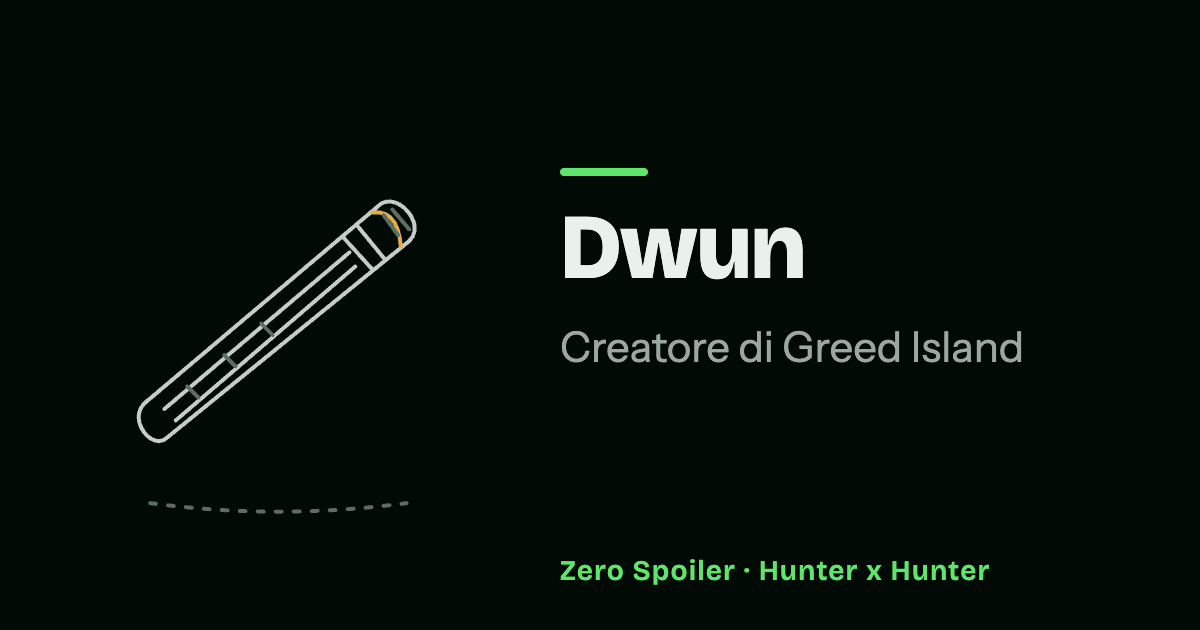
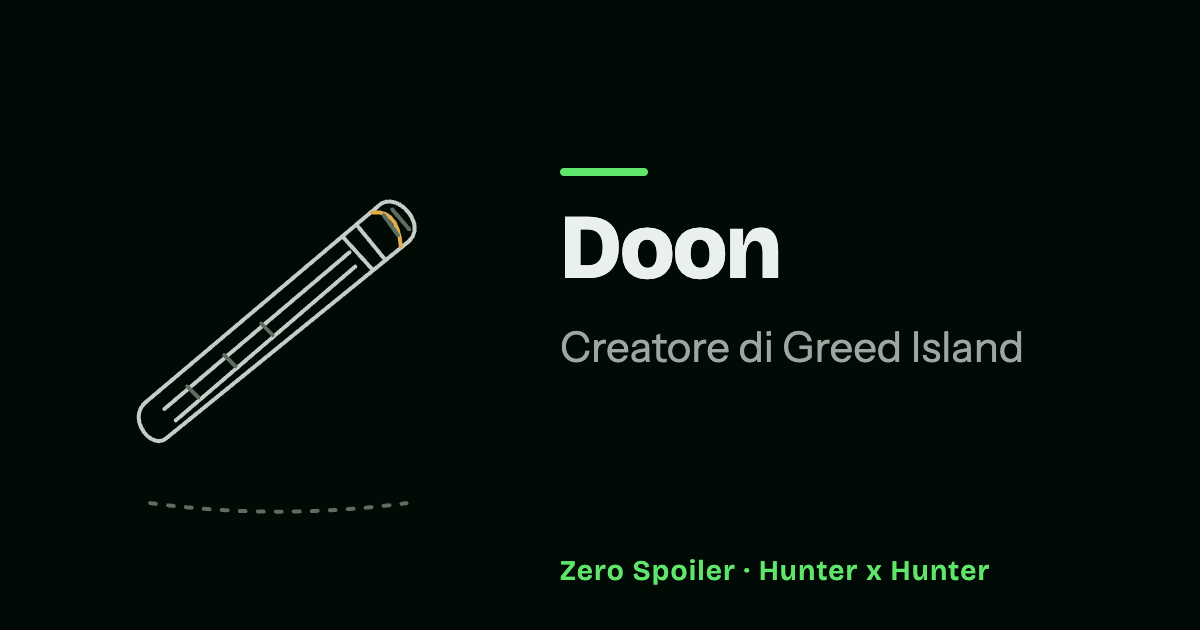
fix(hunter-x-hunter): give the Greed Island game masters their Italian names (#1231)

Changed region(s): [[0.4933, 0.3619, 0.6783, 0.4524]]

diff --git a/src/data/series/hunter-x-hunter/records/greed-island.chronicle.ts b/src/data/series/hunter-x-hunter/records/greed-island.chronicle.ts
@@ -503,7 +503,7 @@ export const greedIslandChronicles = {
       value: {
         title: { it: 'L’ultima carta', en: 'The final card' },
         body: {
-          it: 'Dwun accoglie [[gon-freecss|Gon]] nella sua stanza piena di giochi e rifiuti. Gli consegna l’ultima carta di Greed Island e una custodia per portarne tre fuori dal gioco. È un amico di [[ging-freecss|Ging]], che ha cambiato il suo nome per adattarne l’iniziale al titolo del gioco. Dwun se ne lamenta ancora mentre Gon ascolta i racconti su suo padre.',
+          it: 'Doon accoglie [[gon-freecss|Gon]] nella sua stanza piena di giochi e rifiuti. Gli consegna l’ultima carta di Greed Island e una custodia per portarne tre fuori dal gioco. È un amico di [[ging-freecss|Ging]], che ha cambiato il suo nome per adattarne l’iniziale al titolo del gioco. Doon se ne lamenta ancora mentre Gon ascolta i racconti su suo padre.',
           en: 'Dwun receives [[gon-freecss|Gon]] in his room full of games and rubbish. He gives him the final Greed Island card and a case for taking three cards outside the game. He is a friend of [[ging-freecss|Ging]], who changed his name so that its initial would fit the game’s title. Dwun still complains about it as Gon listens to stories about his father.',
         },
       },
@@ -517,7 +517,7 @@ export const greedIslandChronicles = {
       value: {
         title: { it: 'I nomi dei creatori', en: 'The creators’ names' },
         body: {
-          it: 'List accoglie [[gon-freecss|Gon]] nel castello e lo accompagna da [[dwun|Dwun]] per ricevere l’ultima carta. Si presenta come amico di [[ging-freecss|Ging]] e spiega che undici persone hanno creato Greed Island. Le iniziali dei loro nomi formano il titolo. Dopo la consegna della carta, una festa in città celebra il vincitore del gioco.',
+          it: 'List accoglie [[gon-freecss|Gon]] nel castello e lo accompagna da [[dwun|Doon]] per ricevere l’ultima carta. Si presenta come amico di [[ging-freecss|Ging]] e spiega che undici persone hanno creato Greed Island. Le iniziali dei loro nomi formano il titolo. Dopo la consegna della carta, una festa in città celebra il vincitore del gioco.',
           en: 'List welcomes [[gon-freecss|Gon]] to the castle and takes him to [[dwun|Dwun]] to receive the final card. He introduces himself as a friend of [[ging-freecss|Ging]] and explains that eleven people created Greed Island. Their initials form its title. After the card is handed over, a celebration in town honors the game’s winner.',
         },
       },
@@ -531,7 +531,7 @@ export const greedIslandChronicles = {
       value: {
         title: { it: 'L’ingresso e il quiz', en: 'The entrance and the quiz' },
         body: {
-          it: 'Eeta accoglie [[gon-freecss|Gon]] quando entra a Greed Island e gli spiega come usare il libro e le carte. Alla fine conduce il quiz per assegnare l’ultima carta del gioco. [[list|List]] rivela che lei e [[elena|Elena]] sono gemelle e fanno parte degli undici creatori: anche le loro iniziali compongono il titolo di Greed Island.',
+          it: 'Ether accoglie [[gon-freecss|Gon]] quando entra a Greed Island e gli spiega come usare il libro e le carte. Alla fine conduce il quiz per assegnare l’ultima carta del gioco. [[list|List]] rivela che lei e [[elena|Elena]] sono gemelle e fanno parte degli undici creatori: anche le loro iniziali compongono il titolo di Greed Island.',
           en: 'Eta welcomes [[gon-freecss|Gon]] when he enters Greed Island and explains how to use the book and cards. At the end she runs the quiz that awards the game’s final card. [[list|List]] reveals that she and [[elena|Elena]] are twins and belong to its eleven creators: their initials also form part of the title Greed Island.',
         },
       },
@@ -545,7 +545,7 @@ export const greedIslandChronicles = {
       value: {
         title: { it: 'L’uscita dal gioco', en: 'Leaving the game' },
         body: {
-          it: 'Elena si occupa dei giocatori che lasciano Greed Island. [[killua|Killua]] passa da lei quando esce per sostenere l’esame Hunter. Alla fine del gioco [[list|List]] rivela che Elena ed [[eta|Eeta]] sono gemelle e hanno contribuito a crearlo. Quando arriva il vincitore, Elena si congratula con [[gon-freecss|Gon]] e gli chiede di scegliere le tre carte da portare fuori.',
+          it: 'Elena si occupa dei giocatori che lasciano Greed Island. [[killua|Killua]] passa da lei quando esce per sostenere l’esame Hunter. Alla fine del gioco [[list|List]] rivela che Elena ed [[eta|Ether]] sono gemelle e hanno contribuito a crearlo. Quando arriva il vincitore, Elena si congratula con [[gon-freecss|Gon]] e gli chiede di scegliere le tre carte da portare fuori.',
           en: 'Elena handles players leaving Greed Island. [[killua|Killua]] passes through when he leaves to take the Hunter Exam. At the end of the game [[list|List]] reveals that Elena and [[eta|Eta]] are twins who helped create it. When the winner arrives, Elena congratulates [[gon-freecss|Gon]] and asks him to choose the three cards he will take outside.',
         },
       },

diff --git a/src/data/series/hunter-x-hunter/records/greed-island.relationships.ts b/src/data/series/hunter-x-hunter/records/greed-island.relationships.ts
@@ -4,7 +4,7 @@ const dwunGon = {
   character: 'gon-freecss',
   type: { it: 'Vincitore che premia', en: 'Winner he rewards' },
   summary: {
-    it: 'Dwun consegna a Gon l’ultima carta e gli spiega come portare tre carte fuori dal gioco.',
+    it: 'Doon consegna a Gon l’ultima carta e gli spiega come portare tre carte fuori dal gioco.',
     en: 'Dwun gives Gon the final card and explains how to take three cards out of the game.',
   },
 }
@@ -12,7 +12,7 @@ const dwunGing = {
   character: 'ging-freecss',
   type: { it: 'Amico e creatore del gioco', en: 'Friend and fellow creator' },
   summary: {
-    it: 'Dwun ha creato Greed Island con Ging. Gli rimprovera di avergli cambiato il nome per inserirne l’iniziale nel titolo.',
+    it: 'Doon ha creato Greed Island con Ging. Gli rimprovera di avergli cambiato il nome per inserirne l’iniziale nel titolo.',
     en: 'Dwun created Greed Island with Ging. He resents Ging changing his name to fit its initial into the title.',
   },
 }
@@ -20,7 +20,7 @@ const dwunList = {
   character: 'list',
   type: { it: 'Collega nel castello', en: 'Colleague at the castle' },
   summary: {
-    it: 'List accompagna Gon da Dwun e lo richiama quando scherza con il vincitore.',
+    it: 'List accompagna Gon da Doon e lo richiama quando scherza con il vincitore.',
     en: 'List takes Gon to Dwun and intervenes when Dwun teases the winner.',
   },
 }
@@ -177,7 +177,7 @@ const links = {
     character: 'eta',
     type: { it: 'Sorella gemella', en: 'Twin sister' },
     summary: {
-      it: 'Elena ed Eeta sono gemelle e hanno partecipato alla creazione di Greed Island.',
+      it: 'Elena ed Ether sono gemelle e hanno partecipato alla creazione di Greed Island.',
       en: 'Elena and Eta are twins who helped create Greed Island.',
     },
   },
@@ -415,7 +415,7 @@ export const greedIslandRelationships = {
           character: 'gon-freecss',
           type: { it: 'Vincitore che accoglie', en: 'Winner he welcomes' },
           summary: {
-            it: 'List accoglie Gon nel castello, lo accompagna da Dwun e gli spiega come si conclude il gioco.',
+            it: 'List accoglie Gon nel castello, lo accompagna da Doon e gli spiega come si conclude il gioco.',
             en: 'List welcomes Gon to the castle, takes him to Dwun and explains how the game ends.',
           },
         },
@@ -423,7 +423,7 @@ export const greedIslandRelationships = {
           character: 'dwun',
           type: { it: 'Collega nel castello', en: 'Colleague at the castle' },
           summary: {
-            it: 'List lavora con Dwun e lo richiama quando scherza con Gon invece di proseguire con le spiegazioni.',
+            it: 'List lavora con Doon e lo richiama quando scherza con Gon invece di proseguire con le spiegazioni.',
             en: 'List works with Dwun and intervenes when he teases Gon instead of continuing the explanation.',
           },
         },
@@ -451,7 +451,7 @@ export const greedIslandRelationships = {
           character: 'elena',
           type: { it: 'Sorella gemella', en: 'Twin sister' },
           summary: {
-            it: 'Eeta ed Elena sono gemelle e hanno creato Greed Island con gli altri Game Master.',
+            it: 'Ether ed Elena sono gemelle e hanno creato Greed Island con gli altri Game Master.',
             en: 'Eta and Elena are twins who created Greed Island with the other Game Masters.',
           },
         },
@@ -459,7 +459,7 @@ export const greedIslandRelationships = {
           character: 'gon-freecss',
           type: { it: 'Giocatore che accoglie', en: 'Player she welcomes' },
           summary: {
-            it: 'Eeta spiega a Gon le regole quando entra nel gioco. Conduce il quiz finale e lo proclama vincitore.',
+            it: 'Ether spiega a Gon le regole quando entra nel gioco. Conduce il quiz finale e lo proclama vincitore.',
             en: 'Eta explains the rules when Gon enters the game. She runs the final quiz and announces him as its winner.',
           },
         },
@@ -467,7 +467,7 @@ export const greedIslandRelationships = {
           character: 'killua',
           type: { it: 'Giocatore che riaccoglie', en: 'Returning player' },
           summary: {
-            it: 'Quando Killua rientra dopo l’esame Hunter, Eeta gli offre di spiegargli di nuovo le regole.',
+            it: 'Quando Killua rientra dopo l’esame Hunter, Ether gli offre di spiegargli di nuovo le regole.',
             en: 'When Killua returns after the Hunter Exam, Eta offers to explain the rules again.',
           },
         },

diff --git a/src/data/series/hunter-x-hunter/records/greed-island.ts b/src/data/series/hunter-x-hunter/records/greed-island.ts
@@ -319,7 +319,7 @@ export const greedIsland: HunterSaga = {
       kind: 'character',
       revealedAtEpisode: 75,
       revealedAtChapter: 184,
-      name: { it: 'Dwun', en: 'Dwun' },
+      name: { it: 'Doon', en: 'Dwun' },
       summary: {
         it: 'Un creatore di Greed Island che consegna a Gon l’ultima carta e gli spiega come portarne tre fuori dal gioco.',
         en: 'A creator of Greed Island who gives Gon the final card and explains how to take three cards out of the game.',
@@ -336,7 +336,7 @@ export const greedIsland: HunterSaga = {
       revealedAtChapter: 184,
       name: { it: 'List', en: 'List' },
       summary: {
-        it: 'Un creatore di Greed Island che accoglie Gon nel castello e gli presenta Dwun.',
+        it: 'Un creatore di Greed Island che accoglie Gon nel castello e gli presenta Doon.',
         en: 'A creator of Greed Island who welcomes Gon to the castle and introduces him to Dwun.',
       },
       visual: { art: 'list', tint: 'violet' },
@@ -347,7 +347,7 @@ export const greedIsland: HunterSaga = {
       source: 'chapter',
       revealedAtEpisode: 75,
       revealedAtChapter: 184,
-      name: { it: 'Eeta', en: 'Eta' },
+      name: { it: 'Ether', en: 'Eta' },
       summary: {
         it: 'Una creatrice di Greed Island che spiega le regole ai nuovi giocatori e conduce il quiz finale.',
         en: 'A creator of Greed Island who explains the rules to new players and runs the final quiz.',
@@ -430,7 +430,7 @@ export const greedIsland: HunterSaga = {
       relationships: greedIslandRelationships.list,
       role: { it: 'Creatore di Greed Island', en: 'Greed Island creator' },
       log: {
-        it: 'Accoglie Gon nel castello e lo accompagna nella stanza di Dwun. Si presenta come amico di Ging e spiega che il nome del gioco deriva dalle iniziali dei suoi undici creatori. Organizza la conclusione del gioco per Gon.',
+        it: 'Accoglie Gon nel castello e lo accompagna nella stanza di Doon. Si presenta come amico di Ging e spiega che il nome del gioco deriva dalle iniziali dei suoi undici creatori. Organizza la conclusione del gioco per Gon.',
         en: 'He welcomes Gon to the castle and takes him to Dwun’s room. He introduces himself as Ging’s friend and explains that the game’s name comes from the initials of its eleven creators. He arranges the end of the game for Gon.',
       },
       status: [
@@ -476,7 +476,7 @@ export const greedIsland: HunterSaga = {
       relationships: greedIslandRelationships.elena,
       role: { it: 'Creatrice di Greed Island', en: 'Greed Island creator' },
       log: {
-        it: 'Si occupa dei giocatori che lasciano il gioco. Accompagna l’uscita di Killua quando parte per l’esame Hunter. List rivela che lei ed Eeta sono gemelle e che hanno partecipato alla creazione di Greed Island.',
+        it: 'Si occupa dei giocatori che lasciano il gioco. Accompagna l’uscita di Killua quando parte per l’esame Hunter. List rivela che lei ed Ether sono gemelle e che hanno partecipato alla creazione di Greed Island.',
         en: 'She handles players leaving the game. She sends Killua out when he leaves for the Hunter Exam. List reveals that she and Eta are twins who helped create Greed Island.',
       },
       status: [
